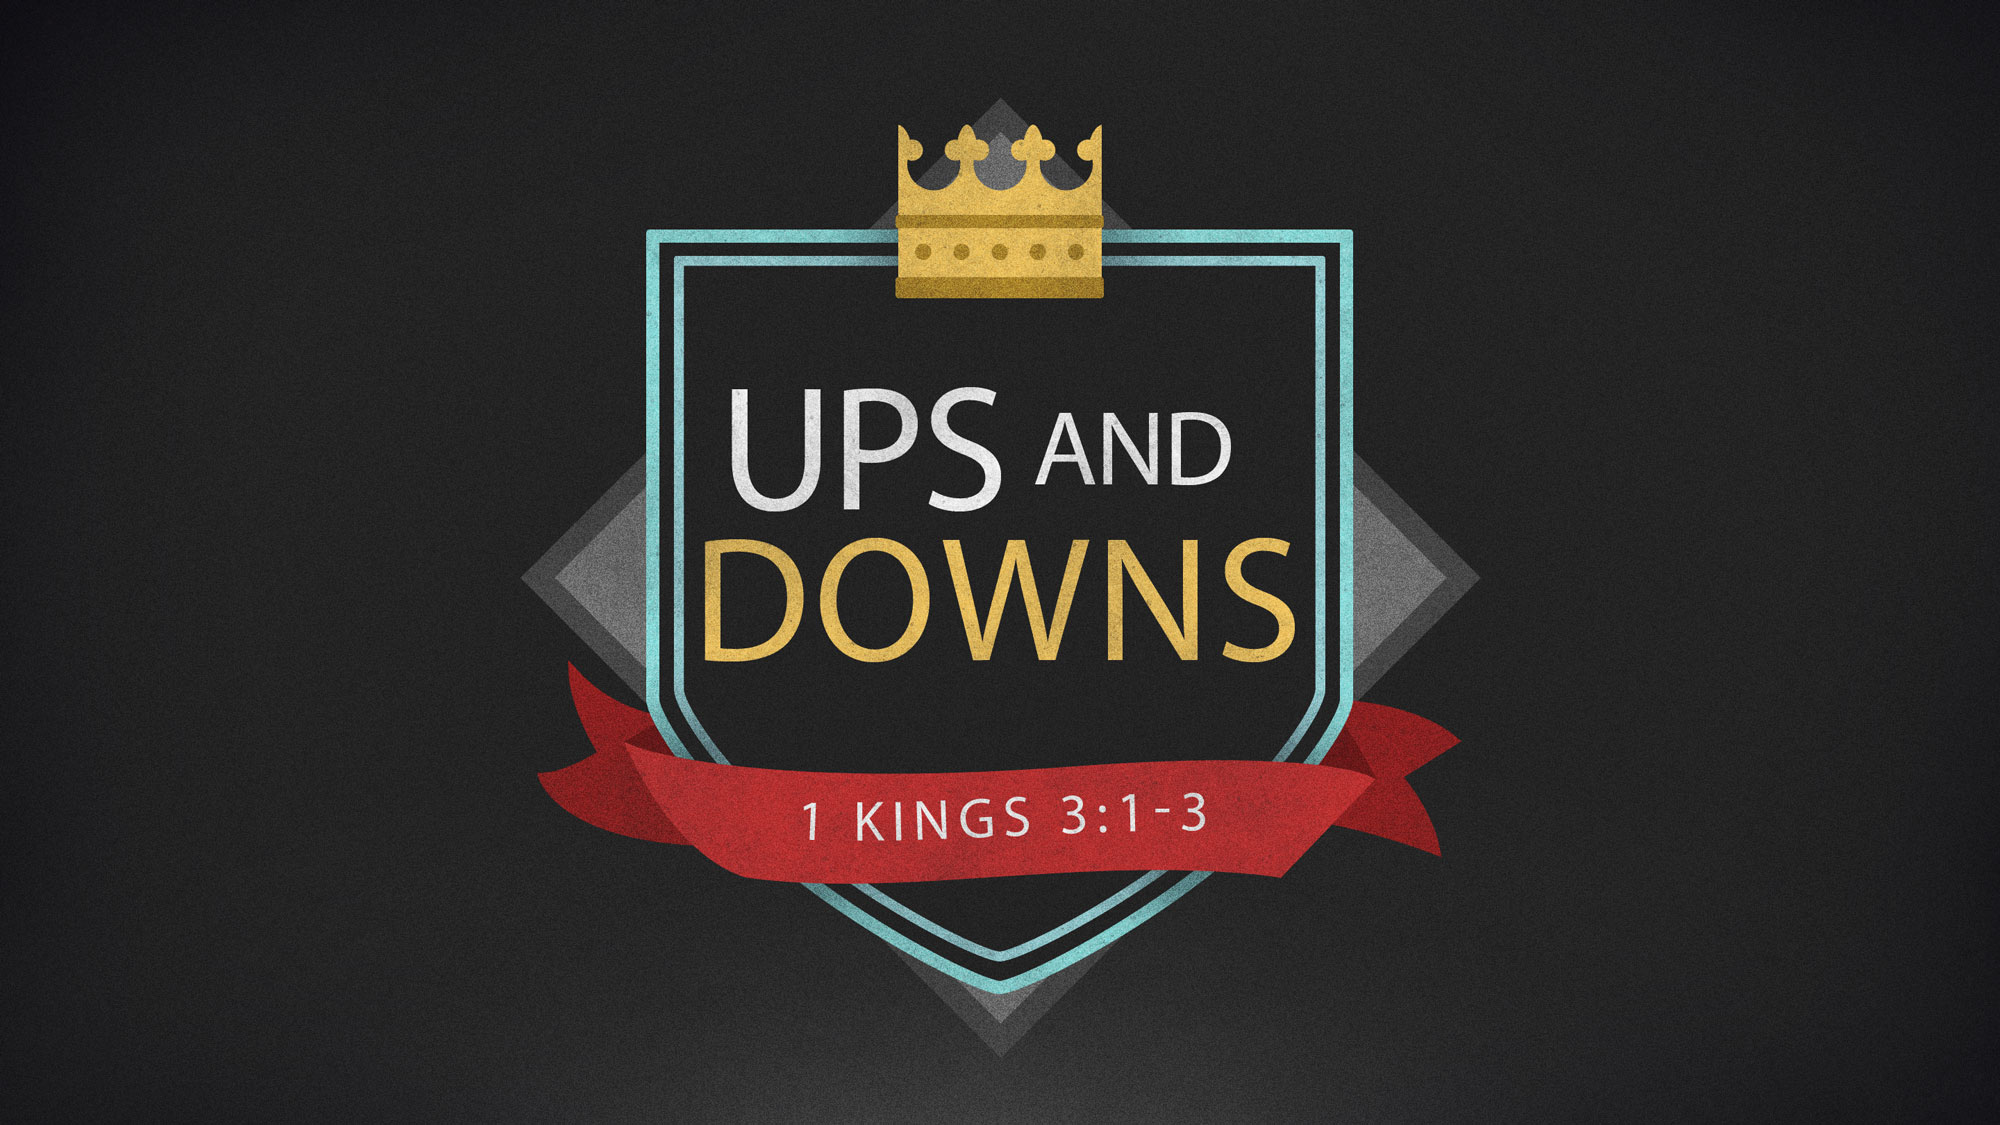
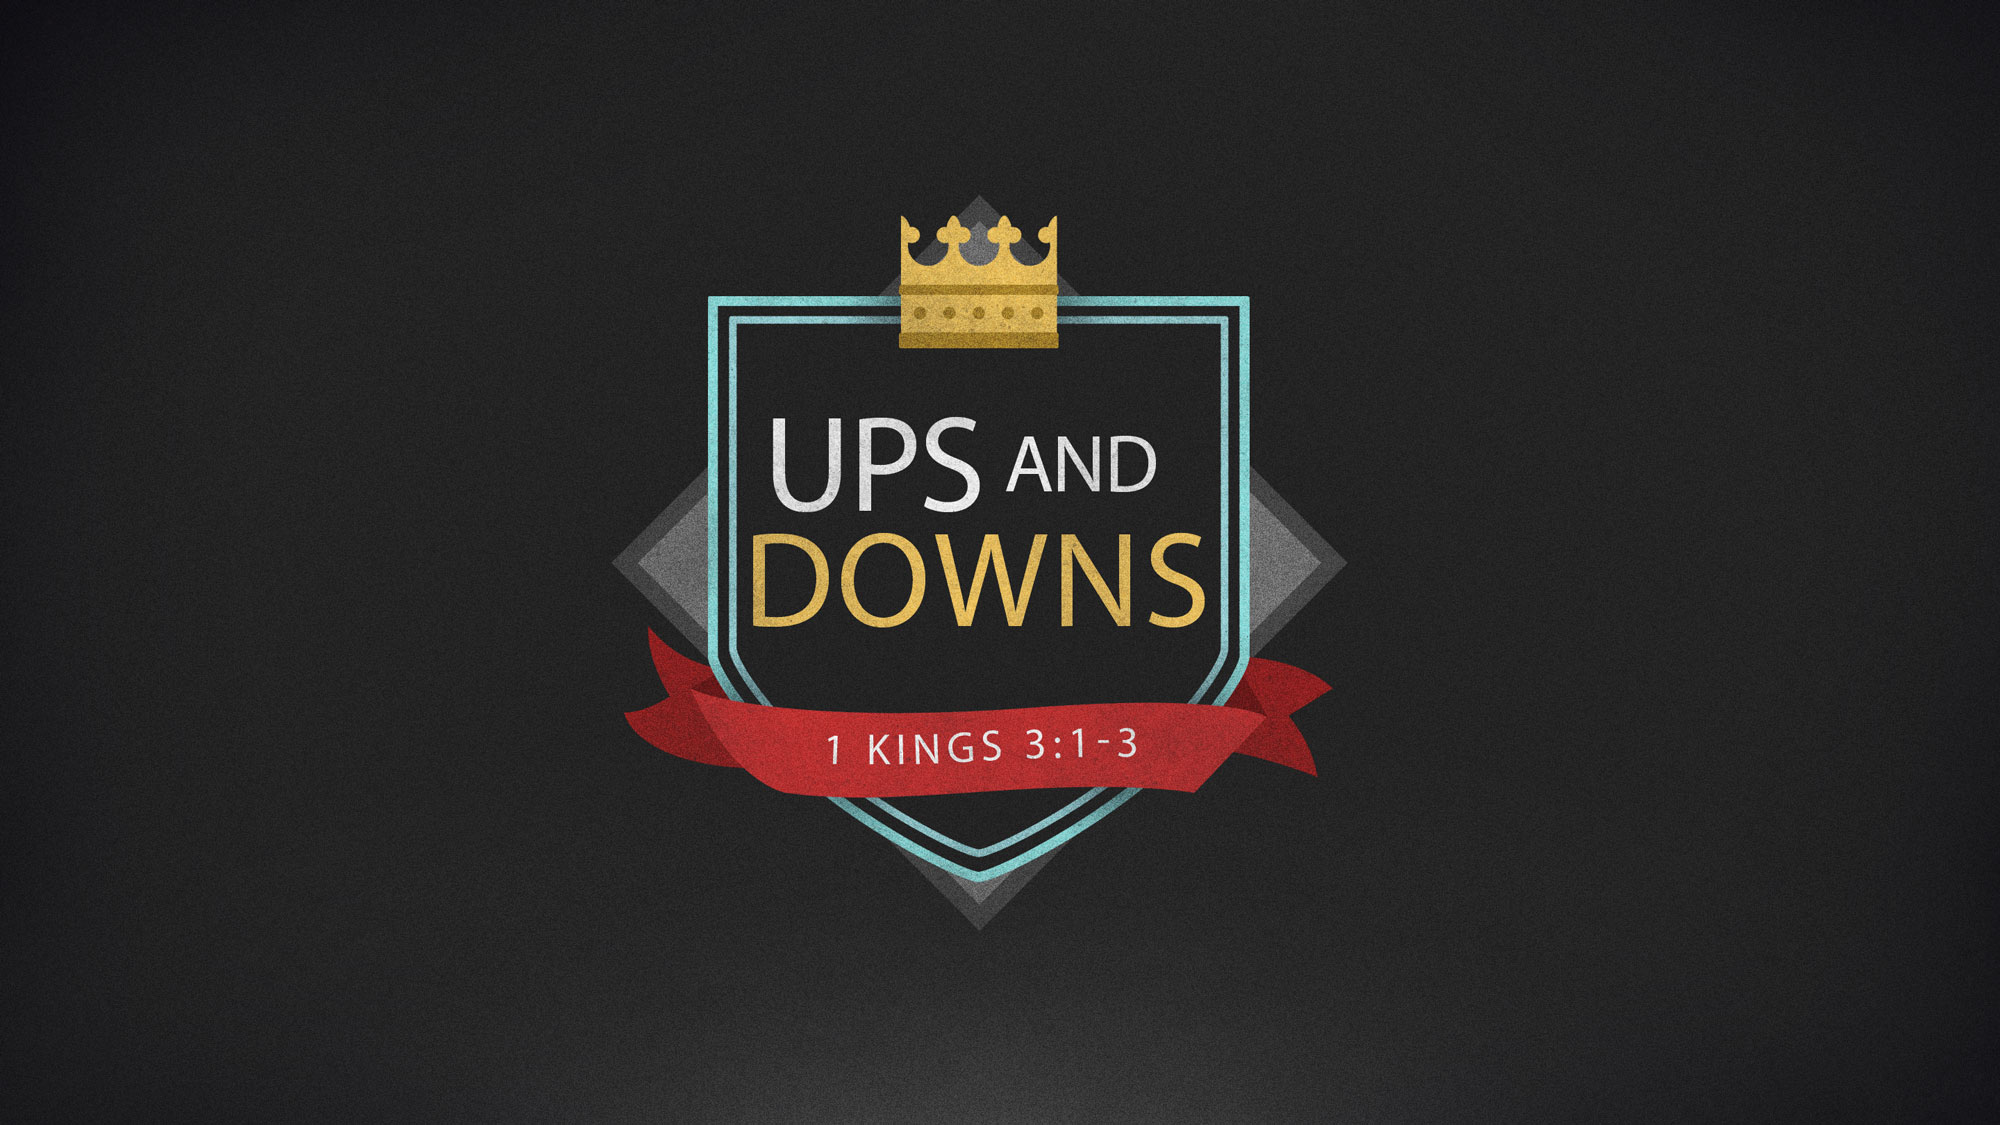
Site updated at 2015-06-22 16:37:59 UTC

Changed region(s): [[0.248, 0.0933, 0.744, 0.9022]]

diff --git a/index.html b/index.html
@@ -5,7 +5,7 @@
     <meta charset="utf-8" />
     <meta name="viewport" content="width=1024" />
     <meta name="apple-mobile-web-app-capable" content="yes" />
-    <title>First Baptist Sermon Presentation June 14, 2015 | using impress.js</title>
+    <title>First Baptist Sermon Presentation June 28, 2015 | using impress.js</title>
     
     <meta name="description" content="impress.js is a presentation tool based on the power of CSS3 transforms and transitions in modern browsers and inspired by the idea behind prezi.com." />
     <meta name="author" content="Bartek Szopka" />
@@ -29,78 +29,88 @@
 <section id="overview" class="level1 step first" data-x="-4000" data-y="0" data-scale="10">
 <h1></h1>
 <figure>
-<img src="images/grace-guilt.jpg" />
+<img src="images/ups-and-downs.jpg" />
 </figure>
 </section>
-<section id="review" class="level1 step dark" data-x="-500" data-y="-3000" data-scale="2">
+<section id="review" class="level1 step" data-x="-7100" data-y="-2000" data-rotate="-90" data-scale="2">
 <h1>Review</h1>
 </section>
-<section id="summary" class="level1 step dark" data-x="-1000" data-y="-2600" data-scale="2">
-<h1>Summary</h1>
-</section>
-<section id="adonijahs-request" class="level1 step dark" data-x="-500" data-y="-2200" data-scale="2">
-<h1>Adonijah's Request</h1>
-</section>
-<section id="section" class="level1 step" data-x="-4000" data-y="-3000" data-rotate="90">
+<section id="section" class="level1 step" data-x="-9000" data-y="-3000">
 <h1></h1>
-<p>But Adonijah, in fear of Solomon, went and took hold of the horns of the altar. Then Solomon was told,</p>
+<p>Walk in obedience to him, and keep his decrees and commands, his laws and regulations, as written in the Law of Moses.</p>
+<p><em>1 Kings 2:3 NIV11-GK</em></p>
 </section>
-<section id="section-1" class="level1 step" data-x="-4800" data-y="-2800">
+<section id="section-1" class="level1 step" data-x="-4000" data-y="2000" data-scale="4">
 <h1></h1>
-<p>“Adonijah is afraid of King Solomon and is clinging to the horns of the altar. He says, ‘Let King Solomon swear to me today that he will not put his servant to death with the sword.’</p>
-<p><em>1 Kings 1:50–51 NIV</em></p>
+<!-- zoom in on passage -->
 </section>
-<section id="section-2" class="level1 step" data-x="-6000" data-y="-3000" data-rotate="-90">
+<section id="solomons-shortcomings" class="level1 step" data-x="-7500" data-y="-700" data-rotate="-45">
+<h1>Solomon's Shortcomings</h1>
+</section>
+<section id="solomons-women" class="level1 step" data-x="-7500" data-y="370" data-rotate="45">
+<h1>Solomon's Women</h1>
+</section>
+<section id="section-2" class="level1 step" data-x="-8500" data-y="-2000">
 <h1></h1>
-<p>Solomon replied, “If he shows himself to be worthy, not a hair of his head will fall to the ground; but if evil is found in him, he will die.” Then King Solomon sent men,</p>
+<p>The king, moreover, must not acquire great numbers of horses for himself or make the people return to Egypt to get more of them, for the LORD has told you, “You are not to go back that way again.&quot;</p>
+<p><em>Deuteronomy 17:16 NIV11-GK</em></p>
 </section>
-<section id="section-3" class="level1 step" data-x="-5000" data-y="-3500">
+<section id="section-3" class="level1 step" data-x="-9500" data-y="-1200">
 <h1></h1>
-<p>and they brought him down from the altar. And Adonijah came and bowed down to King Solomon, and Solomon said, “Go to your home.”</p>
-<p><em>1 Kings 1:52–53 NIV</em></p>
+<p>Do not intermarry with them. Do not give your daughters to their sons or take their daughters for your sons,</p>
+<p><em>Deuteronomy 7:3 NIV11-GK</em></p>
 </section>
-<section id="adonijahs-request-1" class="level1 step dark" data-x="-500" data-y="-2200" data-scale="2">
-<h1>Adonijah's Request</h1>
-</section>
-<section id="section-4" class="level1 step" data-x="-4200" data-y="-2000">
+<section id="section-4" class="level1 step" data-x="-9000" data-y="-300">
 <h1></h1>
-<p>Then they searched throughout Israel for a beautiful young woman and found Abishag, a Shunammite, and brought her to the king.</p>
-<p><em>1 Kings 1:3 NIV</em></p>
+<p>He had seven hundred wives of royal birth and three hundred concubines, and his wives led him astray. As Solomon grew old, his wives turned his heart after other gods, and his heart was not fully devoted to the LORD his God, as the heart of David his father had been.</p>
+<p><em>1 Kings 11:3–4 NIV11-GK</em></p>
 </section>
-<section id="the-king-and-his-mother" class="level1 step dark" data-x="-1000" data-y="-1800" data-scale="2">
-<h1>The King and His Mother</h1>
-</section>
-<section id="the-request" class="level1 step dark" data-x="-500" data-y="-1400" data-scale="2">
-<h1>The Request</h1>
-</section>
-<section id="section-5" class="level1 step" data-x="-4200" data-y="-1000" data-rotate="-90">
+<section id="section-5" class="level1 step" data-x="-4000" data-y="2000" data-scale="4">
 <h1></h1>
-<p>So they pitched a tent for Absalom on the roof, and he slept with his father’s concubines in the sight of all Israel.</p>
-<p><em>2 Samuel 16:22 NIV</em></p>
+<!-- zoom in on passage -->
 </section>
-<section id="abiathar" class="level1 step dark" data-x="-1000" data-y="-1000" data-scale="2">
-<h1>Abiathar</h1>
-</section>
-<section id="joab" class="level1 step dark" data-x="-500" data-y="-600" data-scale="2">
-<h1>Joab</h1>
-</section>
-<section id="section-6" class="level1 step" data-x="-9500" data-y="1000">
+<section id="section-6" class="level1 step" data-x="0" data-y="-3000">
 <h1></h1>
-<p>“Anyone who strikes a person with a fatal blow is to be put to death. However, if it is not done intentionally, but God lets it happen, they are to flee to a place I will designate.</p>
+<p>After Pharaoh's daughter had come up from the City of David to the palace Solomon had built for her, he constructed the terraces.</p>
+<p><em>1 Kings 9:24 NIV11-GK</em></p>
 </section>
-<section id="section-7" class="level1 step" data-x="-10500" data-y="1000" data-rotate="-90">
+<section id="solomons-worship" class="level1 step" data-x="-1300" data-y="-2000" data-rotate="90" data-scale="1.5">
+<h1>Solomon's Worship</h1>
+</section>
+<section id="section-7" class="level1 step" data-x="500" data-y="-2000">
 <h1></h1>
-<p>But if anyone schemes and kills someone deliberately, that person is to be taken from my altar and put to death.</p>
-<p><em>Exodus 21:12–14 NIV</em></p>
+<p>drive out all the inhabitants of the land before you. Destroy all their carved images and their cast idols, and demolish all their high places</p>
+<p><em>Numbers 33:52 NIV11-GK</em></p>
 </section>
-<section id="joab-1" class="level1 step dark" data-x="-500" data-y="-600" data-scale="2">
-<h1>Joab</h1>
+<section id="section-8" class="level1 step" data-x="0" data-y="-1000">
+<h1></h1>
+<p>On a hill east of Jerusalem, Solomon built a high place for Chemosh the detestable god of Moab, and for Molek the detestable god of the Ammonites.</p>
 </section>
-<section id="shimei" class="level1 step dark" data-x="-1000" data-y="-200" data-scale="2">
-<h1>Shimei</h1>
+<section id="section-9" class="level1 step" data-x="1000" data-y="-1000" data-rotate="-90">
+<h1></h1>
+<p>He did the same for all his foreign wives, who burned incense and offered sacrifices to their gods.</p>
+<p><em>1 Kings 11:7–8 NIV11-GK</em></p>
 </section>
-<section id="what-about-us" class="level1 step dark" data-x="-500" data-y="200" data-scale="2">
-<h1>What about us?</h1>
+<section id="love-for-god" class="level1 step" data-x="-1000" data-y="-750" data-rotate="45">
+<h1>Love for God</h1>
+</section>
+<section id="section-10" class="level1 step" data-x="1000" data-y="500">
+<h1></h1>
+<p>So be strong, act like a man, and observe what the LORD your God requires: Walk in obedience to him, and keep his decrees and commands, his laws and regulations, as written in the Law of Moses.</p>
+<p><em>1 Kings 2:2–3 NIV11-GK</em></p>
+</section>
+<section id="except-..." class="level1 step" data-x="-1000" data-y="500" data-rotate="-45">
+<h1>Except ...</h1>
+</section>
+<section id="section-11" class="level1 step" data-x="-5800" data-y="1000">
+<h1></h1>
+<p>for all have sinned and fall short of the glory of God,</p>
+<p><em>Romans 3:23 NIV11-GK</em></p>
+</section>
+<section id="section-12" class="level1 step" data-x="-2500" data-y="1000">
+<h1></h1>
+<p>If we claim we have not sinned, we make him out to be a liar and his word is not in us.</p>
+<p><em>1 John 1:10 NIV11-GK</em></p>
 </section>
 
 </div>
